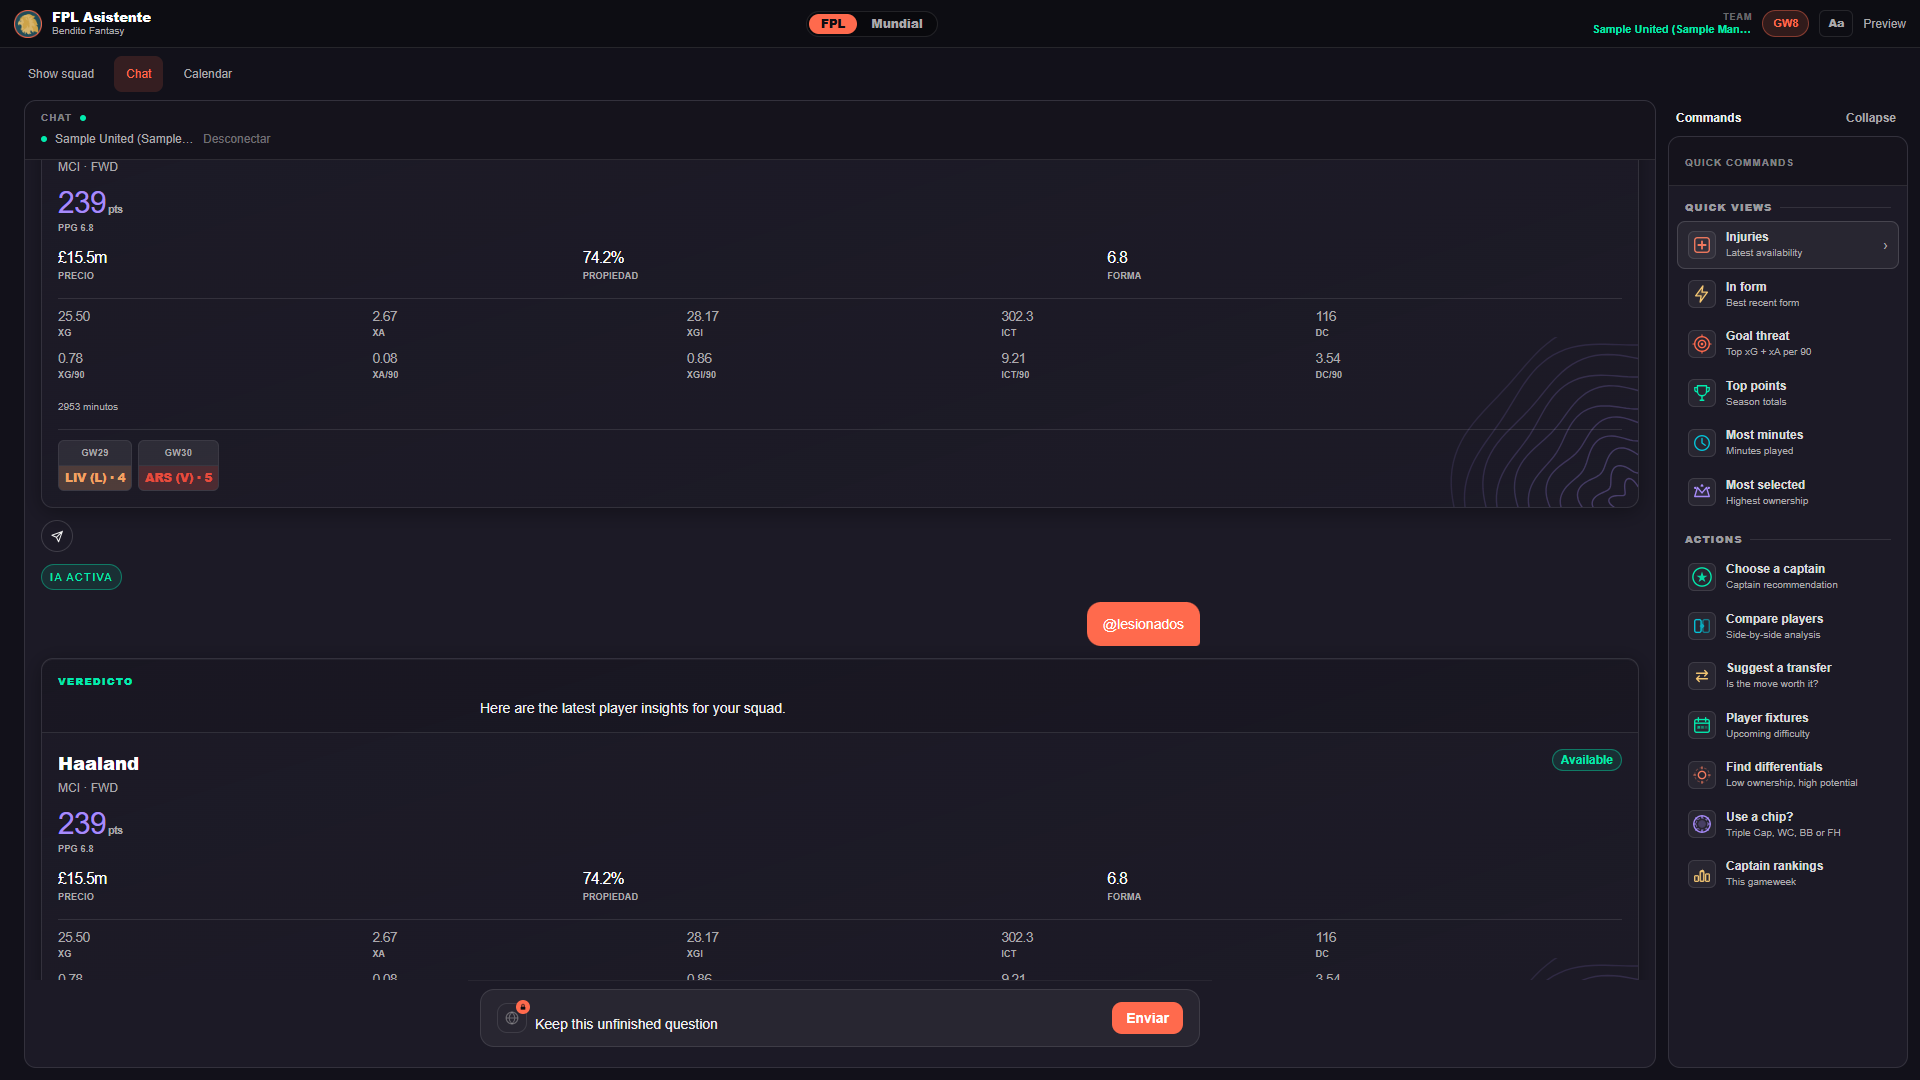
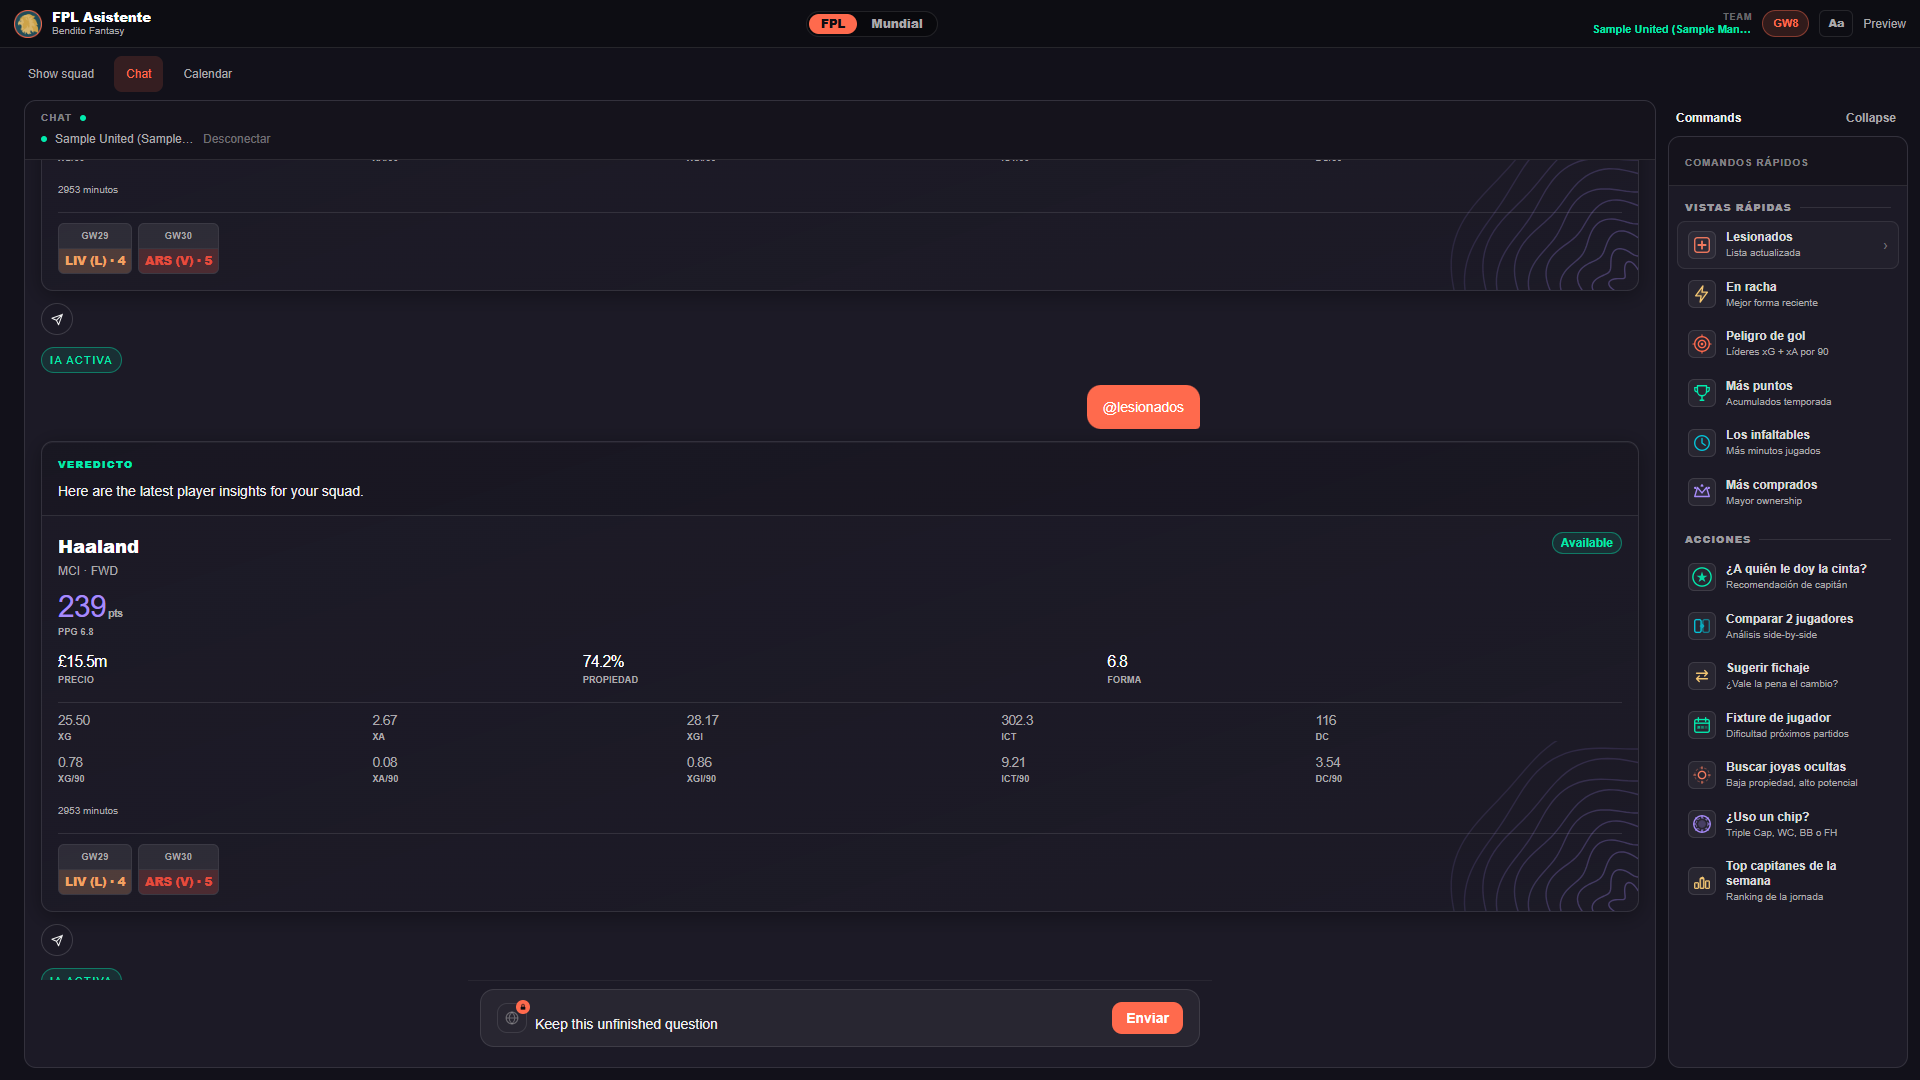
fix(ui): restore copy, align verdicts and send Squad questions

diff --git a/packages/fpl-ui/__tests__/wide-workspace.test.tsx b/packages/fpl-ui/__tests__/wide-workspace.test.tsx
@@ -8,7 +8,7 @@ jest.mock('@clerk/nextjs', () => ({ useUser: () => ({ user: undefined }) }));
 jest.mock('@/lib/dev-tier', () => ({ readDevTier: () => undefined }));
 jest.mock('../components/chat/TopBar', () => ({ __esModule: true, default: () => null }));
 jest.mock('../components/chat/QuotaIndicator', () => ({ __esModule: true, default: () => null }));
-jest.mock('../components/chat/SquadContextPanel', () => ({ __esModule: true, default: () => null }));
+jest.mock('../components/chat/SquadContextPanel', () => ({ __esModule: true, default: ({ onTeamIdChange }: { onTeamIdChange: (id: number) => void }) => <button onClick={() => onTeamIdChange(123)}>Connect test team</button> }));
 jest.mock('../components/chat/StarterPrompts', () => ({ __esModule: true, default: () => null }));
 jest.mock('../components/intents/FixturesBoard', () => ({ FixturesBoard: ({ onAsk }: { onAsk: (text: string) => void }) => <button onClick={() => onAsk('Arsenal next fixtures')}>Ask about fixture</button> }));
 const mockAsk = jest.fn();
@@ -61,7 +61,7 @@ test('a Calendar question and a complete Commands query open Chat and display th
   await screen.findByText('Answer: Arsenal next fixtures');
   expect(within(nav()).getByRole('button', { name: 'Chat' })).toHaveAttribute('aria-pressed', 'true');
   center('Calendar');
-  fireEvent.click(screen.getByRole('button', { name: /Injuries/ }));
+  fireEvent.click(screen.getByRole('button', { name: /Lesionados/ }));
   await screen.findByText('Answer: @lesionados');
   expect(within(nav()).getByRole('button', { name: 'Chat' })).toHaveAttribute('aria-pressed', 'true');
   expect(mockAsk).toHaveBeenCalledTimes(2);
@@ -69,7 +69,7 @@ test('a Calendar question and a complete Commands query open Chat and display th
 
 test('a command requiring arguments opens Chat and inserts the draft without sending an incomplete query', () => {
   render(<ChatShell />); center('Calendar');
-  fireEvent.click(screen.getByRole('button', { name: /Compare players/ }));
+  fireEvent.click(screen.getByRole('button', { name: /Comparar 2 jugadores/ }));
   expect(within(nav()).getByRole('button', { name: 'Chat' })).toHaveAttribute('aria-pressed', 'true');
   expect(screen.getByRole('textbox', { name: /pregunta/i })).toHaveValue('/comparar ');
   expect(mockAsk).not.toHaveBeenCalled();
@@ -81,12 +81,35 @@ test('breakpoint defaults, saved collapse choices, and disconnected Squad are us
   expect(container.querySelector('[data-panel="squad"]')).toHaveAttribute('aria-hidden', 'true');
   expect(container.querySelector('[data-panel="commands"]')).not.toHaveAttribute('aria-hidden');
   act(() => { width = 1440; listeners.forEach(fn => fn()); });
-  expect(screen.getByText(/Connect your FPL team in Chat/)).toBeVisible();
+  expect(screen.getByText(/Conecta tu equipo FPL en la pestaña Chat/)).toBeVisible();
   fireEvent.click(screen.getByRole('button', { name: 'Collapse squad' }));
   expect(screen.getByRole('button', { name: 'Show squad' })).toBeVisible();
   unmount();
   render(<ChatShell />);
   await waitFor(() => expect(screen.getByRole('button', { name: 'Show squad' })).toBeVisible());
   fireEvent.click(screen.getByRole('button', { name: 'Show squad' }));
-  expect(screen.getByText(/Connect your FPL team in Chat/)).toBeVisible();
+  expect(screen.getByText(/Conecta tu equipo FPL en la pestaña Chat/)).toBeVisible();
+});
+
+test('selecting a Squad player only selects; Ask AI opens Chat and sends exactly once', async () => {
+  const originalFetch = global.fetch;
+  global.fetch = jest.fn().mockResolvedValue({ ok: true, json: async () => ({
+    gw: 8, summary: { gw_points: 61, total_points: 432, bank: 14 },
+    players: [{ id: 4, web_name: 'Haaland', team_short: 'MCI', position: 'FWD', price: 150, sel: '62.1', form: '7.0', gw_points: 10, pick_position: 10, is_starter: true, is_captain: false }],
+  }) });
+  try {
+    render(<ChatShell />);
+    fireEvent.click(screen.getByRole('button', { name: 'Connect test team' }));
+    const player = await screen.findByRole('button', { name: 'Haaland, MCI' });
+    center('Calendar');
+    fireEvent.click(player);
+    expect(player).toHaveAttribute('aria-pressed', 'true');
+    expect(within(nav()).getByRole('button', { name: 'Calendar' })).toHaveAttribute('aria-pressed', 'true');
+    expect(mockAsk).not.toHaveBeenCalled();
+    fireEvent.click(screen.getByRole('button', { name: /Ask AI/ }));
+    await screen.findByText(/^Answer:.*Haaland/);
+    expect(within(nav()).getByRole('button', { name: 'Chat' })).toHaveAttribute('aria-pressed', 'true');
+    expect(mockAsk).toHaveBeenCalledTimes(1);
+    expect(mockAsk).toHaveBeenCalledWith(expect.objectContaining({ question: expect.stringContaining('Haaland') }));
+  } finally { global.fetch = originalFetch; }
 });

diff --git a/packages/fpl-ui/components/chat/CommandPanel.tsx b/packages/fpl-ui/components/chat/CommandPanel.tsx
@@ -49,23 +49,23 @@ interface PanelCommand {
 
 // @ vistas rápidas — Spanish aliases supported by the backend resource router.
 const AT_COMMANDS: PanelCommand[] = [
-  { insert: '@lesionados', label: 'Injuries', desc: 'Latest availability', Icon: IconInjury, accent: 'coralSoft', autoSend: true },
-  { insert: '@forma', label: 'In form', desc: 'Best recent form', Icon: IconForm, accent: 'gold', autoSend: true },
-  { insert: '@xg', label: 'Goal threat', desc: 'Top xG + xA per 90', Icon: IconXG, accent: 'coral', autoSend: true },
-  { insert: '@puntos', label: 'Top points', desc: 'Season totals', Icon: IconPoints, accent: 'turquoise', autoSend: true },
-  { insert: '@minutos', label: 'Most minutes', desc: 'Minutes played', Icon: IconMinutes, accent: 'cyan', autoSend: true },
-  { insert: '@populares', label: 'Most selected', desc: 'Highest ownership', Icon: IconPopular, accent: 'purple', autoSend: true },
+  { insert: '@lesionados', label: 'Lesionados', desc: 'Lista actualizada', Icon: IconInjury, accent: 'coralSoft', autoSend: true },
+  { insert: '@forma', label: 'En racha', desc: 'Mejor forma reciente', Icon: IconForm, accent: 'gold', autoSend: true },
+  { insert: '@xg', label: 'Peligro de gol', desc: 'Líderes xG + xA por 90', Icon: IconXG, accent: 'coral', autoSend: true },
+  { insert: '@puntos', label: 'Más puntos', desc: 'Acumulados temporada', Icon: IconPoints, accent: 'turquoise', autoSend: true },
+  { insert: '@minutos', label: 'Los infaltables', desc: 'Más minutos jugados', Icon: IconMinutes, accent: 'cyan', autoSend: true },
+  { insert: '@populares', label: 'Más comprados', desc: 'Mayor ownership', Icon: IconPopular, accent: 'purple', autoSend: true },
 ];
 
 // Presentation for each registry command (friendly question as the label).
 const SLASH_PRESENTATION: Record<string, { label: string; desc: string; Icon: IconComponent; accent: Accent }> = {
-  '/capitan': { label: 'Choose a captain', desc: 'Captain recommendation', Icon: IconCaptain, accent: 'turquoise' },
-  '/comparar': { label: 'Compare players', desc: 'Side-by-side analysis', Icon: IconCompare, accent: 'cyan' },
-  '/transferencia': { label: 'Suggest a transfer', desc: 'Is the move worth it?', Icon: IconTransfer, accent: 'gold' },
-  '/calendarios': { label: 'Player fixtures', desc: 'Upcoming difficulty', Icon: IconFixtures, accent: 'turquoise' },
-  '/diferenciales': { label: 'Find differentials', desc: 'Low ownership, high potential', Icon: IconDiff, accent: 'coralSoft' },
-  '/chips': { label: 'Use a chip?', desc: 'Triple Cap, WC, BB or FH', Icon: IconChip, accent: 'purple' },
-  '/clasificacion': { label: 'Captain rankings', desc: 'This gameweek', Icon: IconRanking, accent: 'gold' },
+  '/capitan': { label: '¿A quién le doy la cinta?', desc: 'Recomendación de capitán', Icon: IconCaptain, accent: 'turquoise' },
+  '/comparar': { label: 'Comparar 2 jugadores', desc: 'Análisis side-by-side', Icon: IconCompare, accent: 'cyan' },
+  '/transferencia': { label: 'Sugerir fichaje', desc: '¿Vale la pena el cambio?', Icon: IconTransfer, accent: 'gold' },
+  '/calendarios': { label: 'Fixture de jugador', desc: 'Dificultad próximos partidos', Icon: IconFixtures, accent: 'turquoise' },
+  '/diferenciales': { label: 'Buscar joyas ocultas', desc: 'Baja propiedad, alto potencial', Icon: IconDiff, accent: 'coralSoft' },
+  '/chips': { label: '¿Uso un chip?', desc: 'Triple Cap, WC, BB o FH', Icon: IconChip, accent: 'purple' },
+  '/clasificacion': { label: 'Top capitanes de la semana', desc: 'Ranking de la jornada', Icon: IconRanking, accent: 'gold' },
 };
 
 const SLASH_PANEL_COMMANDS: PanelCommand[] = SLASH_COMMANDS.map((sc) => {
@@ -128,19 +128,19 @@ export default function CommandPanel({ onInsert, onSend }: Props) {
     <div className="flex flex-col h-full min-h-0">
       <div className="px-4 py-3 border-b border-white/10 flex-shrink-0 bg-black/25">
         <span className="text-[10px] font-bold uppercase tracking-widest text-bf-text/50">
-          Quick commands
+          Comandos rápidos
         </span>
       </div>
 
       <div className="flex-1 overflow-y-auto px-2 py-2.5">
-        <SectionHeading>Quick views</SectionHeading>
+        <SectionHeading>Vistas rápidas</SectionHeading>
         <div className="flex flex-col gap-0.5 mb-3">
           {AT_COMMANDS.map((cmd) => (
             <CommandRow key={cmd.insert} cmd={cmd} onInsert={onInsert} onSend={onSend} />
           ))}
         </div>
 
-        <SectionHeading>Actions</SectionHeading>
+        <SectionHeading>Acciones</SectionHeading>
         <div className="flex flex-col gap-0.5">
           {SLASH_PANEL_COMMANDS.map((cmd) => (
             <CommandRow key={cmd.insert} cmd={cmd} onInsert={onInsert} onSend={onSend} />

diff --git a/packages/fpl-ui/components/chat/ChatShell.tsx b/packages/fpl-ui/components/chat/ChatShell.tsx
@@ -46,7 +46,7 @@ import SquadPitch from '@/components/squad/SquadPitch';
 import { FixturesBoard } from '@/components/intents/FixturesBoard';
 
 // Pager screen order: 0 Calendario · 1 Squad · 2 Chat (home) · 3 Commands.
-const PAGER_LABELS = ['Calendar', 'Squad', 'Chat', 'Commands'] as const;
+const PAGER_LABELS = ['Calendario', 'Squad', 'Chat', 'Commands'] as const;
 const CHAT_SCREEN = 2;
 
 export default function ChatShell() {
@@ -382,7 +382,7 @@ export default function ChatShell() {
 
         {/* SCREEN 1 — Squad pitch */}
         <PagerScreen maxWidth={1120}>
-          <SquadPitch teamId={teamId} onAskPlayer={handleInsert} onGw={setGw} />
+          <SquadPitch teamId={teamId} onAskPlayer={handleSend} onGw={setGw} />
         </PagerScreen>
 
         {/* SCREEN 2 — Chat (home) */}
@@ -402,7 +402,7 @@ export default function ChatShell() {
               {isEmpty ? (
                 <div className="flex-1 flex flex-col items-center justify-center gap-6 px-4">
                   <p className="text-bf-gray text-sm">
-                    Ask a question about your Fantasy Premier League team.
+                    Haz una pregunta sobre tu equipo de Fantasy Premier League.
                   </p>
                   <StarterPrompts onSelect={sendMessage} />
                 </div>
@@ -432,7 +432,6 @@ export default function ChatShell() {
               )}
               <InputBar
                 onSubmit={sendMessage}
-                defaultPlaceholder="Ask a question or use /capitan, /comparar…"
                 disabled={loading}
                 insert={insert}
                 webSearch={{

diff --git a/packages/fpl-ui/components/squad/SquadPitch.tsx b/packages/fpl-ui/components/squad/SquadPitch.tsx
@@ -7,8 +7,8 @@
  *   - stats strip (GW points / total / bank)
  *   - pitch with the starting XI laid out by position rows
  *   - bench row
- *   - player detail card on tap, with an "Ask AI" shortcut that drops a
- *     question about the player into the chat input.
+ *   - player detail card on tap, with an "Ask AI" shortcut that sends a
+ *     question about the player to Chat.
  *
  * Pitch sizing: the pitch box keeps a fixed 5:3 aspect ratio and fills the
  * formation width (bounded at 690px). Wide panels place player details beside
@@ -83,7 +83,7 @@ const POS_STYLE: Record<
 
 interface Props {
   teamId: number | null;
-  /** Drops a question about the player into the chat input. */
+  /** Sends a question about the player to Chat. */
   onAskPlayer: (question: string) => void;
   /** Reports the current GW upward (for the TopBar pill). */
   onGw?: (gw: number) => void;
@@ -159,9 +159,9 @@ export default function SquadPitch({ teamId, onAskPlayer, onGw }: Props) {
 
         {state.status === 'idle' && (
           <CenteredHint>
-            Connect your FPL team in Chat
+            Conecta tu equipo FPL en la pestaña Chat
             <br />
-            to see your squad here.
+            para ver tu plantilla aquí.
           </CenteredHint>
         )}
 

diff --git a/packages/fpl-ui/app/globals.css b/packages/fpl-ui/app/globals.css
@@ -25,6 +25,7 @@
 .wide-workspace .chat-message { width: 100%; max-width: 720px; margin-inline: auto; }
 .wide-workspace .chat-answer { width: 100%; max-width: none; }
 .wide-workspace .chat-prose { max-width: 720px; margin-inline: auto; overflow-wrap: anywhere; }
+.wide-workspace .chat-answer .chat-prose { margin-inline: 0; }
 .wide-workspace [data-panel='commands'] .truncate { white-space: normal; overflow: visible; }
 .wide-workspace .squad-formation [data-squad-pitch] { aspect-ratio: 5 / 4; min-height: 240px; }
 .squad-pitch-sidebar { display: none; }

diff --git a/docs/ui/wide-workspace-preview/README.md b/docs/ui/wide-workspace-preview/README.md
@@ -32,11 +32,13 @@ Actual ChatShell components with synthetic API/team responses in a local browser
 
 ## Validation
 
-- Frontend Jest: 58 suites, 776 tests and 3 snapshots passed, including four new integration tests.
+- Frontend Jest: 58 suites, 776 tests and 3 snapshots passed, before the final Squad action addition. The affected suites then passed all 9 tests, including five workspace integration tests.
 - TypeScript: `npx tsc --noEmit` passed.
-- [26 browser checks](results.json): responsive geometry; non-zero conversation scroll, draft and DOM preservation on tab changes at all five widths; Calendar/Commands switching to Chat with response; persisted collapse; disconnected Squad; no runtime errors.
+- [31 browser checks](results.json): left-aligned card verdicts; responsive geometry; non-zero conversation scroll, draft and DOM preservation on tab changes at all five widths; Calendar/Commands switching to Chat with response; persisted collapse; disconnected Squad; no runtime errors.
 - [8 rich-card checks](rich-cards-results.json): no page overflow or runtime errors at 390 and 2560.
 - Existing gesture regression tests remain green. No physical-device pinch-zoom certification is claimed by these desktop Chromium captures.
 - New Jest cases cover breakpoint defaults, explicit collapse persistence, resize without conversation remount, completed Calendar/Commands questions, and argument-requiring commands inserting a draft without premature submission.
 
 Screenshots were shown to Leo before opening the PR. No merge or auto-merge is authorized.
+
+Review adjustments: restored pre-existing UI copy from main, aligned card verdict prose to the left, and made Squad Ask AI send directly. [Squad browser check](squad-action-result.json) confirms selection stays on Calendar and Ask AI opens Chat with one answer; Jest verifies exactly one API call. Updated captures reflect the restored text and alignment.
